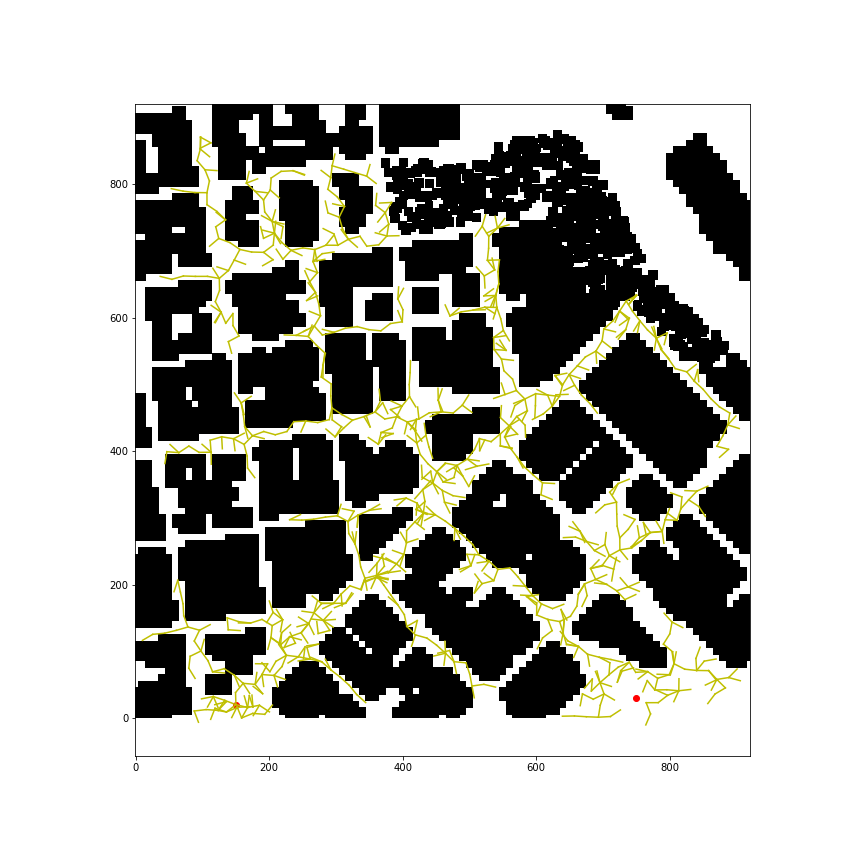
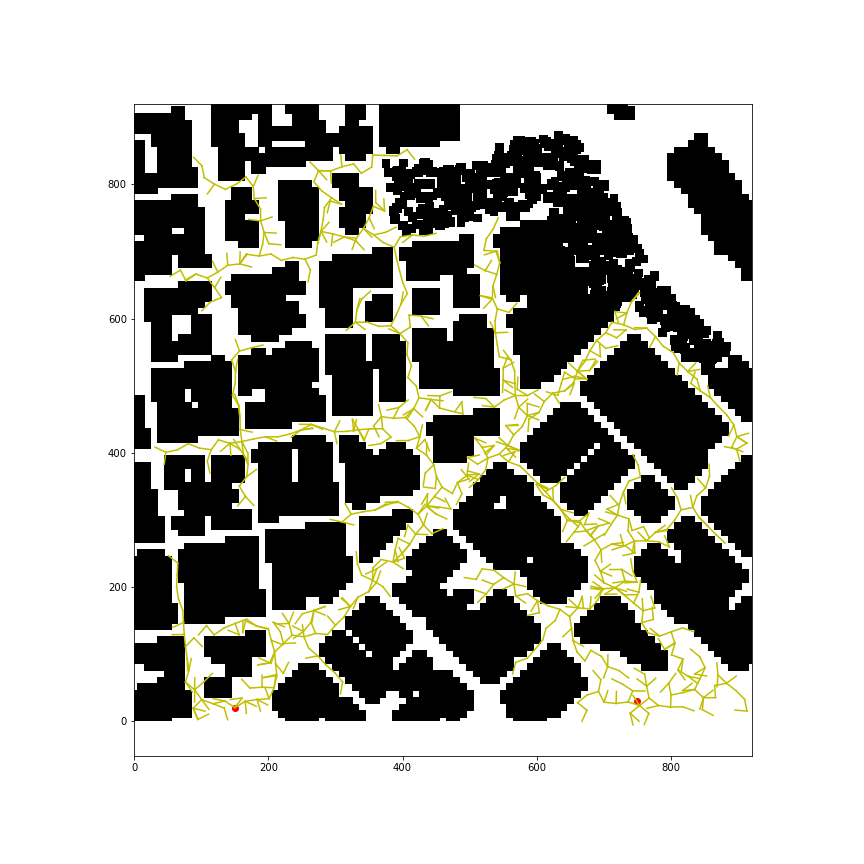
matrix norm update

diff --git a/rrt.py b/rrt.py
@@ -173,8 +173,10 @@ def sample_state(grid):
 
 def nearest_neighbor(x_rand, rrt):
     
-    #x_goal = (30, 750)
-    
+    x_goal = [30,750]
+    wp_radius = np.linalg.norm(x_goal)
+    print (wp_radius)
+
     closest_dist = 100000
     closest_vertex = None
     x_rand = np.array(x_rand)
@@ -185,10 +187,11 @@ def nearest_neighbor(x_rand, rrt):
         if d < closest_dist:
             closest_dist = d
             closest_vertex = v
-
+        print (np.array(v[:2]) 
         # ~arrive at goal  
-        #print (np.array(v[:2]))   
-        if np.array(v[:2]).all == (30, 750):
+        
+        
+        if np.linalg.norm((v[:2] - x_goal)) < 1.0:
             print("Found Goal")    
             break
     
